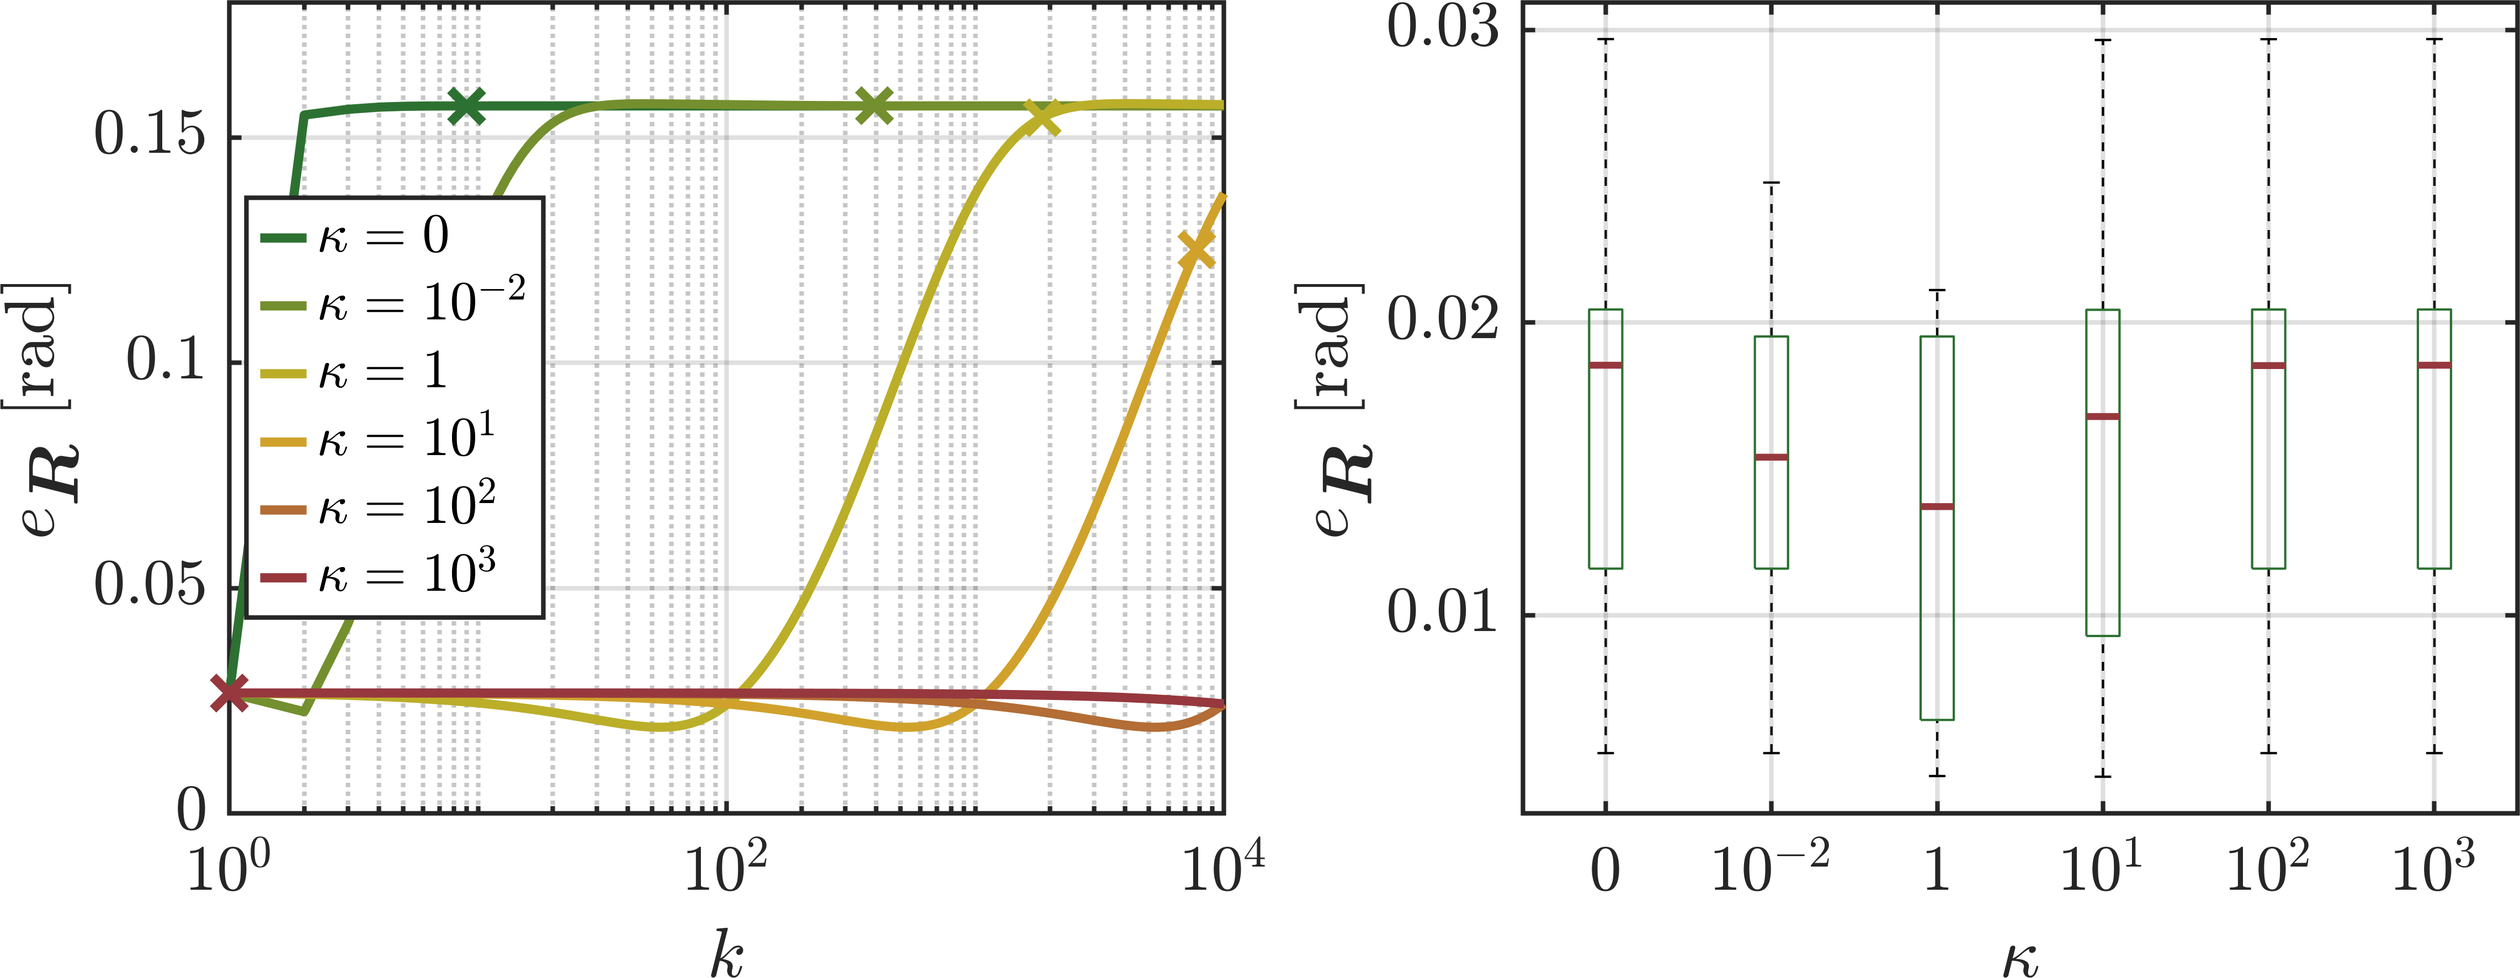
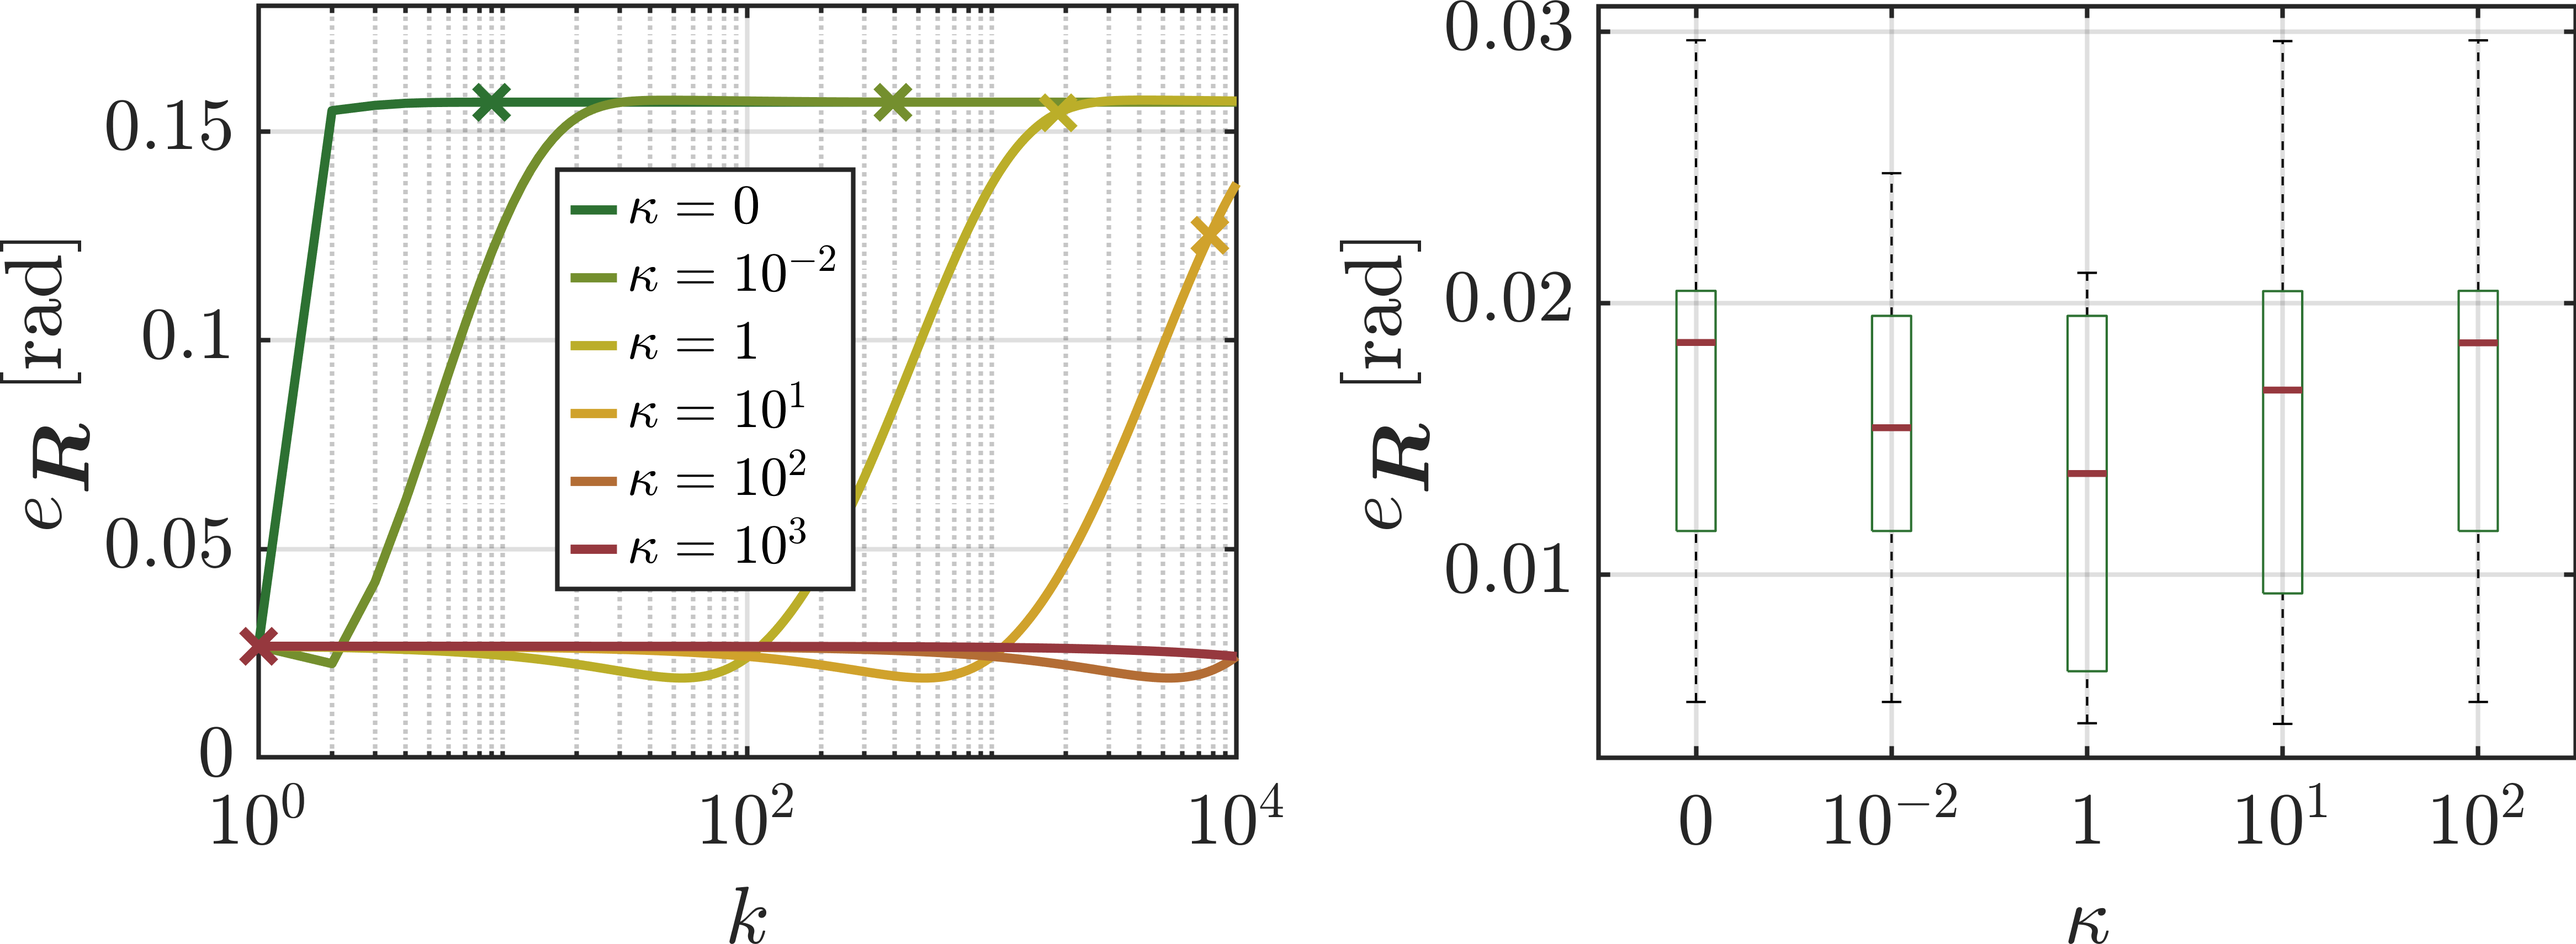
20251211更新了我们的最强版本

diff --git a/code/tools/plot_beta_results.m b/code/tools/plot_beta_results.m
@@ -1,11 +1,12 @@
 clc,clear,close all
-addpath('../results/')
-load('beta_sensitive.mat');
+% addpath('../results/')
+load('../../results/beta_sensitive.mat');
 
+fontsize = 16;
 tl = tiledlayout(1, 2);
-set(gcf, 'color', 'w', 'units', 'centimeters', 'position', 2.3*[0, 0, 8.9, 8.9/2/1.26]);
-tl.TileSpacing = 'compact';
-tl.Padding = 'compact';
+set(gcf, 'color', 'w', 'units', 'centimeters', 'position', [0, 0, 19.8, 7.5]);
+% tl.TileSpacing = 'compact';
+tl.Padding = 'tight';
 nexttile(tl, 1)
 
 num_beta = batch_results(1).results{1}.num_beta;
@@ -23,15 +24,15 @@ h = legend('$\kappa = 0$', '$\kappa = 10^{-2}$', '$\kappa = 1$', '$\kappa = 10^1
 'Interpreter', 'latex', 'FontSize', 12, 'Location', 'best');
 h.ItemTokenSize = [10, 10];
 h.Color = [1, 1, 1];
-xlabel('$k$', 'Interpreter', 'latex', 'FontSize', 14);
-ylabel('$e_{\mbox{\boldmath{$R$}}}$ [rad]', 'Interpreter', 'latex', 'FontSize', 14);
+xlabel('$k$', 'Interpreter', 'latex', 'FontSize', fontsize);
+ylabel('$e_{\mbox{\boldmath{$R$}}}$ [rad]', 'Interpreter', 'latex', 'FontSize', fontsize);
 grid on;
 ylim([0, 0.18]);yticks(0:0.05:0.15);
-set(gca, 'TickLabelInterpreter', 'latex', 'FontSize', 14, 'LineWidth', 1);
+set(gca, 'TickLabelInterpreter', 'latex', 'FontSize', fontsize, 'LineWidth', 1);
 
 nexttile(tl, 2)
 % 注意：不要使用clear，会清除之前加载的数据
-load('beta_robust_2.mat');
+load('../../results/beta_robust_2.mat');
 
 num_beta = batch_results(1).results{1}.num_beta;
 num_points = size(batch_results, 2);
@@ -51,9 +52,9 @@ end
 
 % 创建eR_matrix的箱线图
 % figure;
-eR_matrix = eR_matrix(:, [1, 2, 3, 4, 6, 8]);
-boxplot(eR_matrix, 'Labels', {'1', '2', '3', '4', '5', '6'}, ...
-'Labels', {'$0$', '$10^{-2}$', '$1$', '$10^1$', '$10^2$', '$10^3$'}, 'widths', 0.2);
+eR_matrix = eR_matrix(:, [1, 2, 3, 4, 6]);
+boxplot(eR_matrix, 'Labels', {'1', '2', '3', '4', '5'}, ...
+'Labels', {'$0$', '$10^{-2}$', '$1$', '$10^1$', '$10^2$'}, 'widths', 0.2);
 % 设置boxplot的线条为黑色，内线为红色。box的T字形为实线
 
 colors = slanCM('gor', 2);
@@ -65,11 +66,11 @@ set(boxes, 'Color', colors(1, :));   % 箱体外边颜色改为绿色
 medians = findobj(gca, 'Tag', 'Median');
 set(medians, 'Color', colors(2, :), 'LineWidth', 1.5);  % 中位线颜色设为红色
 
-xlabel('$\kappa$', 'Interpreter', 'latex', 'FontSize', 14);
-ylabel('$e_{\mbox{\boldmath{$R$}}}$ [rad]', 'Interpreter', 'latex', 'FontSize', 14);
+xlabel('$\kappa$', 'Interpreter', 'latex', 'FontSize', fontsize);
+ylabel('$e_{\mbox{\boldmath{$R$}}}$ [rad]', 'Interpreter', 'latex', 'FontSize', fontsize);
 yticks(0:0.01:0.03);
-set(gca, 'TickLabelInterpreter', 'latex', 'FontSize', 14, 'LineWidth', 1);
+set(gca, 'TickLabelInterpreter', 'latex', 'FontSize', fontsize, 'LineWidth', 1);
 grid on;
 
 %% 
-export_fig('../figures/beta_results.png', '-png', '-r600');
+% export_fig('../../figures/beta_results.png', '-png', '-r600');

diff --git a/code/tools/plot_init_results.m b/code/tools/plot_init_results.m
@@ -1,8 +1,8 @@
-function plot_init_results()
+function plot_init_results(batch_results)
 % PLOT_BATCH_RESULTS 绘制批量实验结果
 % 输入：
 %   batch_results - 由 run_batch_experiments 返回的批量结果结构体数组
-load('../../results/initial_cond_config1_20251211.mat', 'batch_results');
+% load('../../results/initial_cond_config1_20251211.mat', 'batch_results');
 num_points = length(batch_results);
 num_methods = 4;  % LM, ELM, Ours, Rlm
 
@@ -39,7 +39,7 @@ set(gcf, 'color', 'w', 'units', 'centimeters', ...
 tiledlayout(1, 3, 'TileSpacing', 'compact', 'Padding', 'compact');
 
 fontsize = 16;
-method_labels = {'Ours', 'LM', 'ELM', 'Fischer'};
+method_labels = {'Ours', '(1)', '(4)', 'Fischer'};
 
 %% 1. Pos
 nexttile;
@@ -79,7 +79,7 @@ set(gca, 'XTick', 1:num_methods, 'XTickLabel', method_labels, ...
 ylabel('$t$ [ms]', 'Interpreter', 'latex');
 grid on;
 set(gca, 'FontSize', fontsize, 'TickDir', 'out', 'LineWidth', 1);
-
-
+%%
+% export_fig('../../figures/init_results_config1.png', '-png', '-r600', '-nocrop');
 end
 

diff --git a/code/exp1_init_cond.m b/code/exp1_init_cond.m
@@ -41,13 +41,13 @@ d_list4 = d_list4 - dc4;
 
 %% ========== 参数配置 ==========
 params = get_experiment_params();
-params.sensor.d_list = d_list1;
+params.sensor.d_list = d_list2;
 % 设置随机种子
 rng(params.experiment.random_seed);
 
 %% ========== 生成测试点 ==========
 % 生成100个测试点（p_true 和 theta_true 的组合）
-num_test_points = 500;  % 测试点数量
+num_test_points = 300;  % 测试点数量
 num_trials_per_point = 1;  % 每个测试点的实验次数（用于测试不同初始值）
 
 % 生成方法选项：

diff --git a/code/Functions/estimateR.m b/code/Functions/estimateR.m
@@ -39,6 +39,8 @@ function [R_opt1, R_opt2] = estimateR(b_bar, B_bar, A_p, X)
     
     % --- 得到初步 R ---
     R_opt1 = PA * bestP * PX';
+
+    R_opt1 = PA * diag(sign(diag(PX'*PA)))*PX';
     
     % --- 统一调整到 SO(3)，避免独立翻 PA/PX 的符号 ---
     if det(R_opt1) < 0

diff --git a/code/Functions/estimate_pose_ours.m b/code/Functions/estimate_pose_ours.m
@@ -37,7 +37,7 @@ B_bar = B_matrix * Q_bar;
 [R_init_est1, R_init_est2] = estimateR(b_bar, B_bar, A_p, X_opt);
 
 mu = 1e2;
-beta = 1e1;
+beta = 1e3;
 R_PPI = estimateR_iter(b_bar, B_bar, A_p, X_opt, R_init_est1, mu, beta, params.R_true); % using R_init
 
 R_est = R_PPI.R;
